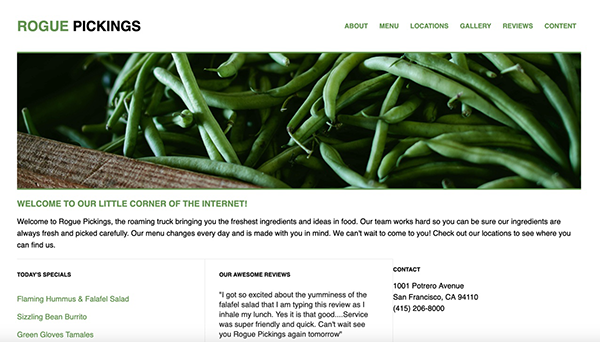
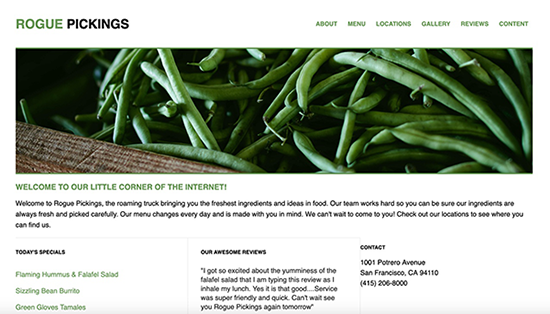
updates to css styles

diff --git a/css/main.css b/css/main.css
@@ -2,107 +2,221 @@
 
 .container {
   width: 1400px;
-  font-family: 'Roboto', sans-serif;
+  font-family: 'Karla', sans-serif;
   font-weight:400;
+  margin:auto;
 }
 /***** HEADER *****/
 
 header {
   height:800px;
-  background: url('../img/hero-image.png');
+  width: 1400px;
+  background: url('../img/background-image.png');
   background-size: cover;
 }
 
 header h1 {
-  padding:350px 300px 5px 300px;
-  font-family:'Roboto Slab', serif;
+  padding:275px 300px 50px 300px;
+  margin:auto 0;
+  font-family: 'Tenor Sans', sans-serif;
   font-size:60px;
   font-weight:bold;
   text-align:center;
-  color:#bdbf09;
+  color:#476a6f;
 }
 
 header h2 {
-  padding: 5px 200px 0 200px;
-  font-family:'Roboto',sans-serif;
-  font-size:48px;
+  padding: 0 200px 0 200px;
+  margin: auto 0;
+  font-family:'Karla',sans-serif;
+  font-size:40px;
   font-weight:normal;
   text-align:center;
   clear:both;
-  color:#095256;
+  color:#476a6f;
 }
 /***** PORTFOLIO *****/
 
 .portfolio {
-  width:1200px;
+  width:1400px;
   height:975px;
   overflow:auto;
+  background-color:#EFE5DC;
+  border-top: 8px dotted white;
 }
 .portfolio h3{
-  padding:0 50px;
   margin:50px 0 75px 0 ;
   text-align:center;
-  font-family: 'Roboto Slab', serif;
+  font-family: 'Tenor Sans', sans-serif;
   font-size: 36px;
-  color:#095256;
+  color:#476a6f;
 }
 .project-image-1 {
-  margin: 25px;
-  border: 1px solid black;
-  width:600px;
+  margin: 0 25px 25px 75px;
+  border: 4px solid white;
+  width:550px;
+  height:314px;
   float:left;
 }
 
 .project-image-2 {
-  margin: 25px;
-  border: 1px solid black;
-  width:600px;
+  margin: 0 25px 25px 75px;
+  border: 4px solid white;
+  width:550px;
+  height:314px; 
   float:left;
   clear:both;
 }
 
 .project-descrip-1, .project-descrip-2 {
-  width:525px;
+  margin: 0 100px 25px 0;
+  width:600px;
+  height:350px;
+  overflow:auto;
   float:right;
 }
-.project-descrip-1, .project-descrip-2 h4{
-  font-size:24px;
+.project-descrip-1 h4, .project-descrip-2 h4{
+  font-size:20px;
+  font-family: 'Tenor Sans', sans-serif;
+  text-transform: none;
   font-weight:700;
-  color:#095256;
+  color:#476a6f;
 }
 .project-descrip-1 h4 span{
-  font-size:24px;
+  font-size:16px;
+  font-family: 'Karla', serif;
+  text-transform:uppercase;
   font-weight:400;
-  color:#095256;
+  color:#476a6f;
 }
 
 .project-descrip-2 h4 span{
-  font-size:24px;
+  font-size:16px;
+  font-family: 'Karla', serif;
+  text-transform:uppercase;
   font-weight:400;
-  color:#095256;
+  color:#476a6f;
 }
-.project-descript-1 p{
-  font-size:24px;
+.project-descrip-1 p, .project-descrip-2 p {
+  margin: auto 0;
+  font-family: 'Karla', sans-serif;
+  font-size:14px;
   font-weight:400;
-  color:#095256;
+  color:#476a6f;
 }
 
 
 /*****ABOUT*****/
 .about {
-  background-color: #087e8b;
+  background-color: #F3D8c7;
+  overflow:auto;
+  clear:both;
+  border-top: 8px dotted white;
+}
+
+.about h3 {
+  margin:50px 0 75px 0 ;
+  text-align:center;
+  font-family:'Tenor Sans',sans-serif;
+  color:#476a6f;
+  font-size:36px;
+}
+
+.selfie {
+  margin: 0 25px 100px 75px;
+  width:550px;
+  height: 323px;
+  float:left;
+  border: 3px solid white;
+}
+
+.self-description {
+  margin: 0 100px 100px 25px;
+  width:600px;
+  height:332px;
+  float:left;
+}
+
+.self-description h4{
+  font-family: 'Tenor Sans',sans-serif;
+  color: #476a6f;
+  font-size: 20px;
+  padding: 0;
+  margin:0;
+  text-align: left;
+}
+
+.self-description p {
+  color: #476a6f;
+  font-size: 16px;
+  font-weight:normal;
+  padding: 0;
 }
 
 /*****CONTACT*****/
 
 .connect {
-  background-color: #095256;
+  background-color: #D0B8AC;
+  margin: 0 auto;
+  overflow:auto;
+  border-top: 8px dotted white;
+}
+.connect h3{
+  margin: 50px 0 50px 0;
+  text-align:center;
+  font-family: 'Tenor Sans', sans-serif;
+  font-size: 36px;
+  color:#FBFEFB;
 }
 
-.connect h3{
-  padding:0 50px;
+.contact {
+  width:400px;
+  float:left;
   text-align:center;
-  font-family: 'Roboto Slab', serif;
-  font-size: 36px;
+  margin: 50px 25px 25px 25px;
+}
+
+.contact-2 {
+  width:400px;
+  float:left;
+  text-align:center;
+  margin: 50px 25px 100px 25px;
+}
+
+.contact-2 ul {
+  list-style: none;
+}
+
+.contact-2 ul li {
+  display:inline-block;
+  margin: 0 25px 0 25px;
+}
+
+.contact h4, .contact-2 h4 {
+  font-family:'Tenor Sans',sans-serif;
+  color: white;
+  font-size: 20px;
+  text-align:center;
+}
+
+.contact p, .contact-2 p {
   color:white;
+  font-family: 'Karla', sans-serif;
+  font-size: 16px;
+  font-weight: normal;
+  text-align: center;
+}
+
+/*****FOOTER*****/
+
+footer {
+  height:100px;
+  background-color: #D0B8AC;
+  text-align:center;
+  overflow:auto;
+}
+
+footer p {
+  color: white;
+  font-size: 18px;
 }

diff --git a/index.html b/index.html
@@ -2,23 +2,24 @@
 <html lang="en">
     <head>
         <meta charset ="utf-8">
-        <title>Trillium Digital &amp; Design</title>
+        <title>Kaylee Doran | Portfolio</title>
         <link rel="stylesheet" href="css/normalize.css">
         <link rel="stylesheet" href="css/main.css">
-        <link href="https://fonts.googleapis.com/css?family=Roboto+Slab:700|Roboto:400,700" rel="stylesheet">
+        <link href="https://fonts.googleapis.com/css?family=Karla|Tenor+Sans" rel="stylesheet">
+        <a style="background-color:black;color:white;text-decoration:none;padding:4px 6px;font-family:-apple-system, BlinkMacSystemFont, &quot;San Francisco&quot;, &quot;Helvetica Neue&quot;, Helvetica, Ubuntu, Roboto, Noto, &quot;Segoe UI&quot;, Arial, sans-serif;font-size:12px;font-weight:bold;line-height:1.2;display:inline-block;border-radius:3px" href="https://unsplash.com/@plushdesignstudio?utm_medium=referral&amp;utm_campaign=photographer-credit&amp;utm_content=creditBadge" target="_blank" rel="noopener noreferrer" title="Download free do whatever you want high-resolution photos from Plush Design Studio"><span style="display:inline-block;padding:2px 3px"><svg xmlns="http://www.w3.org/2000/svg" style="height:12px;width:auto;position:relative;vertical-align:middle;top:-2px;fill:white" viewBox="0 0 32 32"><title>unsplash-logo</title><path d="M10 9V0h12v9H10zm12 5h10v18H0V14h10v9h12v-9z"></path></svg></span><span style="display:inline-block;padding:2px 3px">Plush Design Studio</span></a>
     </head>
     <body>
       <div class="container">
         <header>
-          <h1> Hi There! Welcome to Trillium Digital & Design.</h1>
-          <h2> I'm Kaylee Doran; a web developer, designer, and creative thinker in Columbus, Ohio.</h2>
+          <h1> Hi There! I'm Kaylee Doran</h1>
+          <h2>  &mdash; a web developer, designer, and creative thinker in Columbus, Ohio.</h2>
         </header>
       <section class="portfolio">
-        <h3>My Portfolio</h3>
+        <h3>What I've been working on...</h3>
           <div class="project-image-1"><img src="img/rogue-pickings.png" alt="rogue pickings"></div>
           <div class="project-descrip-1">
             <h4>Rogue Pickings Website<br> <span> HTML &amp; CSS from Photoshop Design Comp</span></h4>
-            <p>pickles pickles pickles..ldsfjlsjkflsjvl;nsd;lvnsdlnv;lnsdvcl;knsdvl;ksnvl;nsdvosudnf;sklavnafbovjns;ldkvn[osidnvasjdfnbv;sjkvn[owdNSV;LKN]]</p>
+              <p>pickles pickles pickles..</p>
           </div>
           <div class="project-image-2"><img src="img/jubilee-austen.png" alt="jubilee austen"></div>
           <div class="project-descrip-2">
@@ -36,14 +37,19 @@
       </section>
       <section class="connect">
         <h3>Let's Connect</h3>
-        <div class="hire-me">
+        <div class="contact">
           <h4>Hire me</h4>
           <p>555-555-5555 <br>hello@rianriver.com</p>
         </div>
-        <div class="follow-me">
+        <div class="contact-2">
           <h4>Follow me</h4>
-        </div>
-        <div class="meet-me">
+            <ul>
+              <li><img src="img/github.png" alt="GitHub"></li>
+              <li><img src="img/linkedin.png" alt="LinkedIn"></li>
+              <li><img src="img/twitter.png" alt="Twitter"></li>
+            </ul>
+          </div>
+        <div class="contact">
           <h4>Meet me</h4>
           <p>Columbus, Ohio<br>Let's go to meetups together!</p>
         </div>
